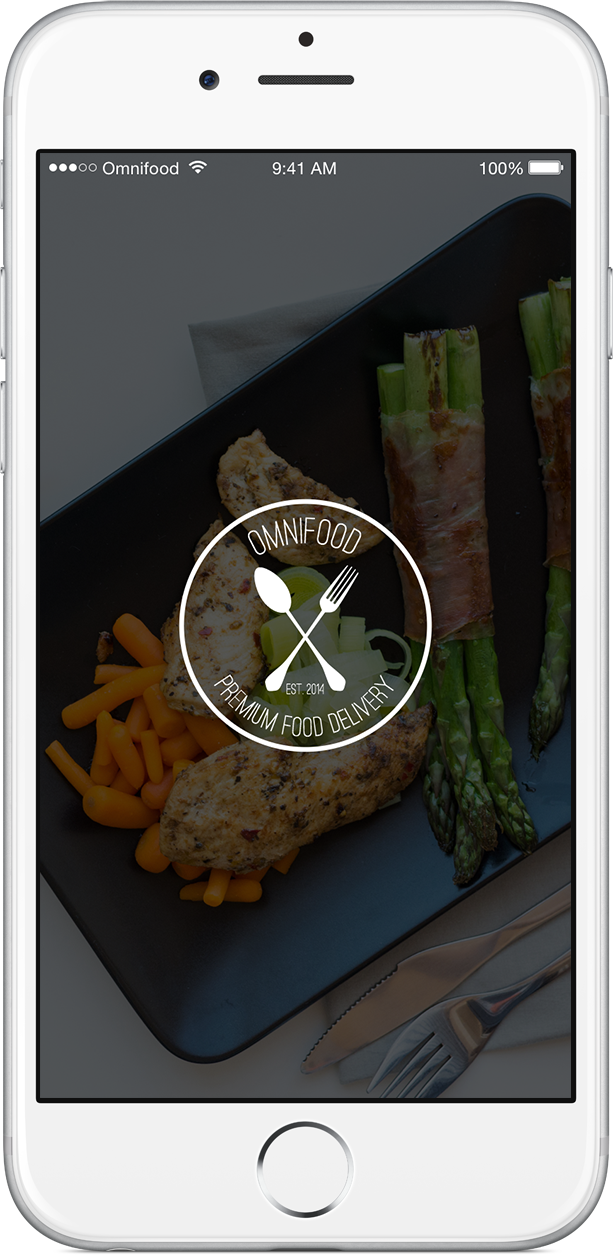
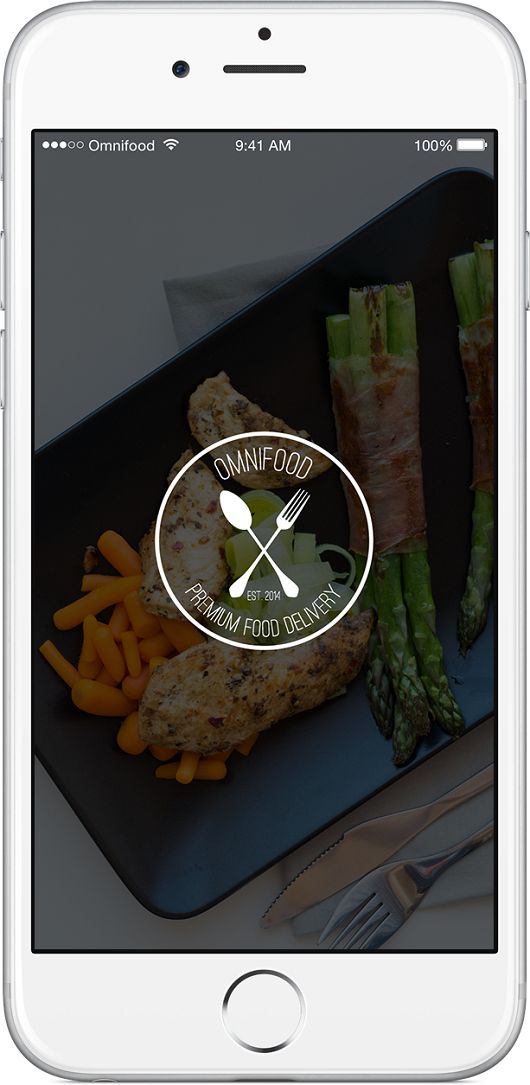
Resize some more images

diff --git a/resources/css/style.css b/resources/css/style.css
@@ -185,7 +185,7 @@ input[type="submit"]:active{
 /* ------------------------ */
 
 header{
-	background-image: linear-gradient(rgba(0,0,0,0.7), rgba(0,0,0,0.7)), url(img/hero.jpg);
+	background-image: linear-gradient(rgba(0,0,0,0.7), rgba(0,0,0,0.7)), url(img/hero-min.jpg);
 	background-size: cover;
 	background-position: center;
 	height: 100vh;
@@ -408,7 +408,7 @@ header{
 /* ------------------------ */
 
 .section-testimonials{
-	background-image: linear-gradient(rgba(0, 0, 0, 0.8), rgba(0, 0, 0, 0.8)), url(img/back-customers.jpg);
+	background-image: linear-gradient(rgba(0, 0, 0, 0.8), rgba(0, 0, 0, 0.8)), url(img/back-customers-min.jpg);
 	background-size: cover;
 	background-position: center;
 	background-attachment: fixed;
